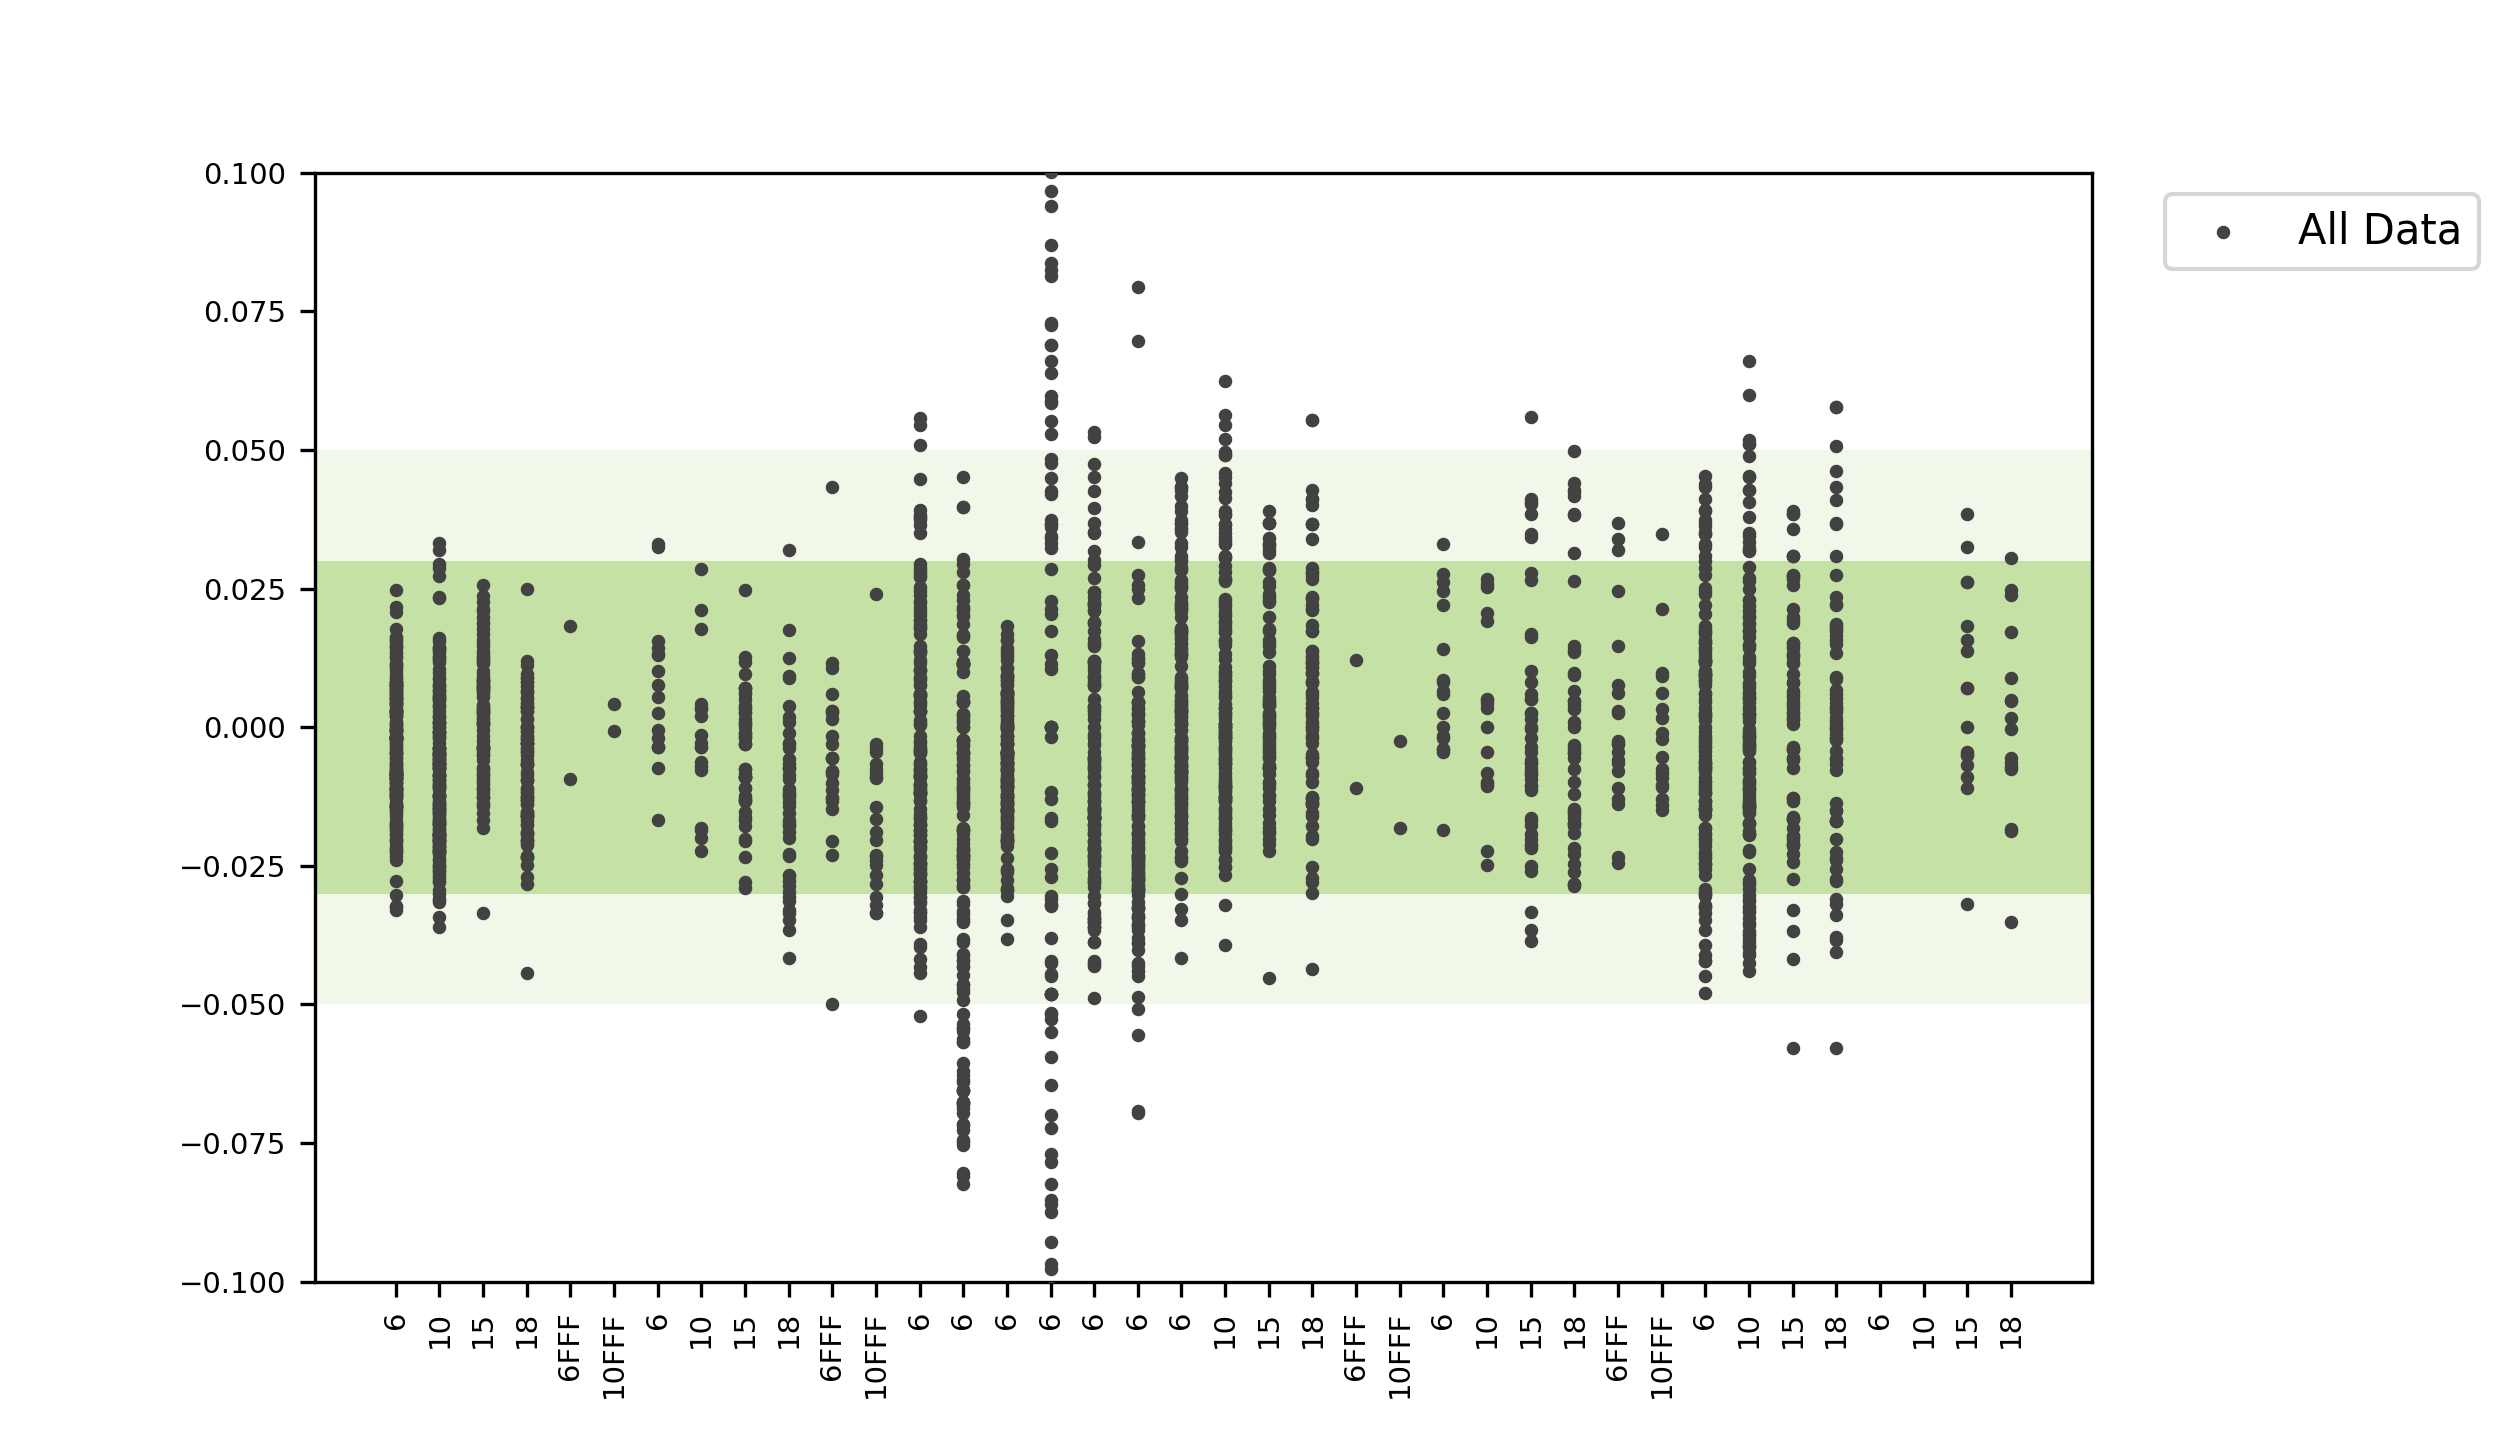
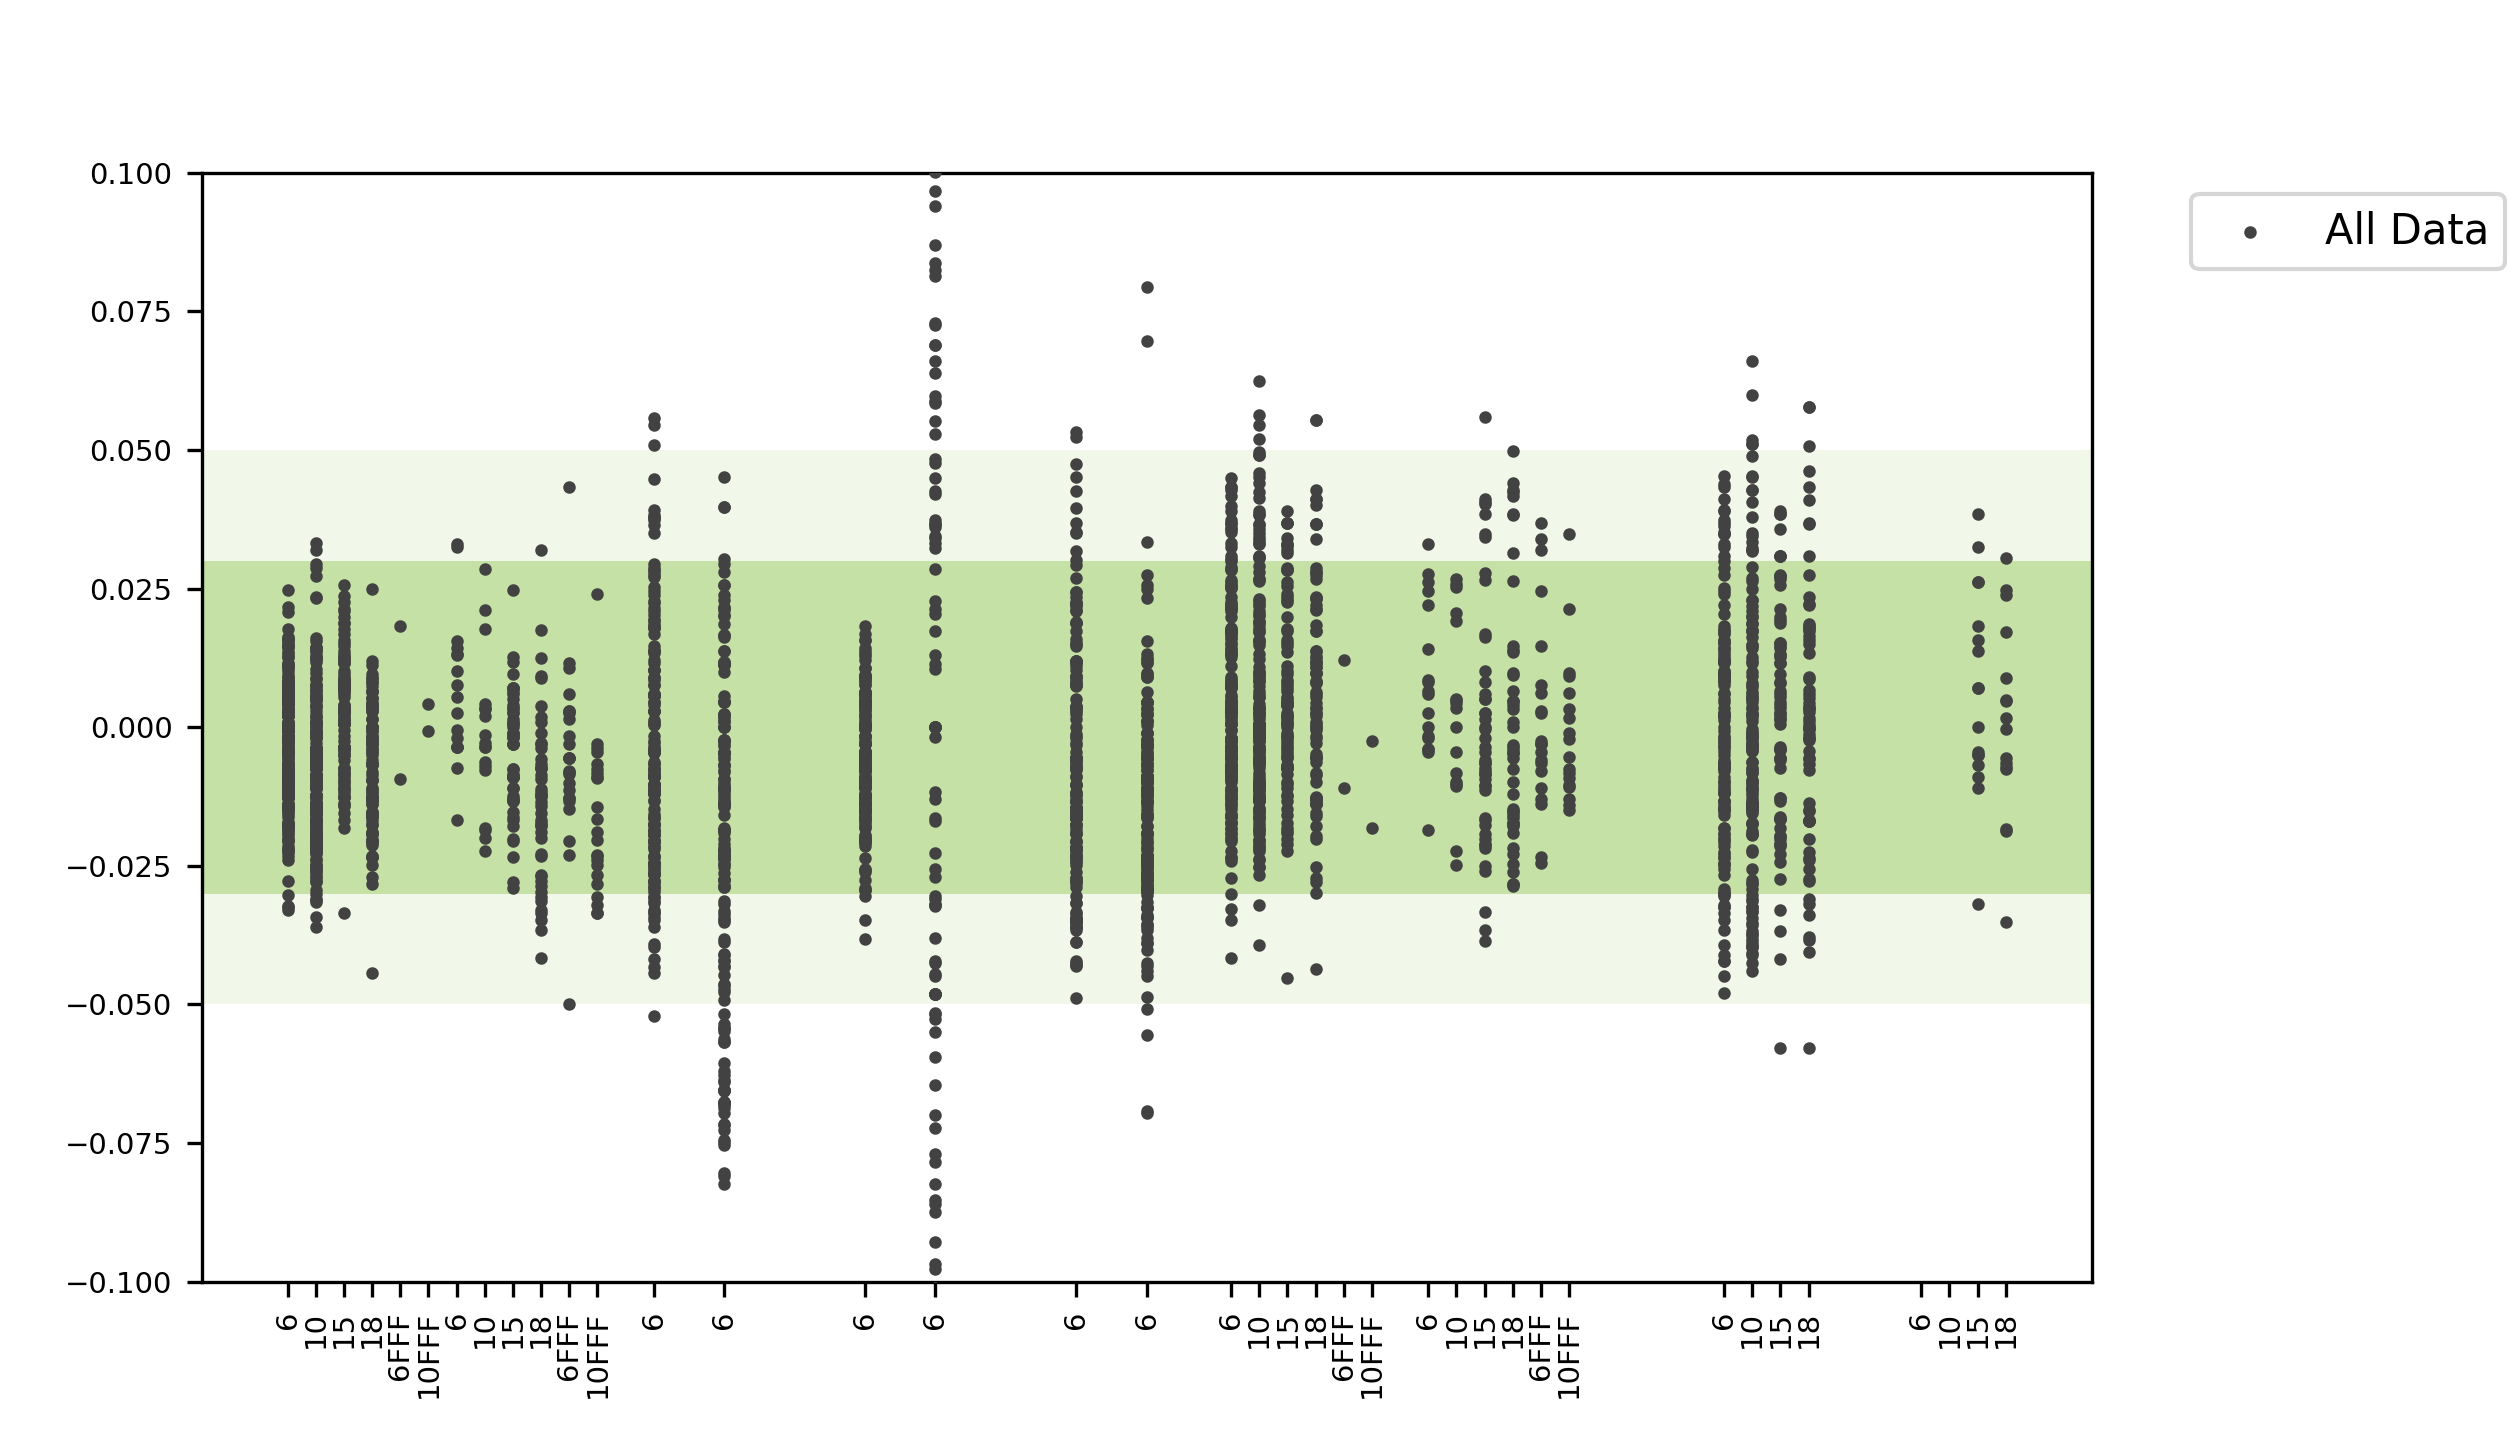
x-axis pos updated

diff --git a/plot3DCRT.py b/plot3DCRT.py
@@ -17,15 +17,15 @@ def all_data():
 
     # y
     del df["x-axis"]
-    # x-axis
-    # x = pd.DataFrame({"x": 263 * (1, 2, 3, 4, 5, 6,
-    #                               7, 8, 9, 10, 11, 12,
-    #                               14, 16.5, 19, 21.5, 24, 26.5,
-    #                               28.5, 29.5, 30.5, 31.5, 32.5, 33.5,
-    #                               35.5, 36.5, 37.5, 38.5, 39.5, 40.5,
-    #                               46, 47, 48, 49,
-    #                               53, 54, 55, 56)})
-    x = pd.DataFrame({"x": 263 * list(range(1, 39))})
+    # x-axis pos
+    x = pd.DataFrame({"x": 263 * (1, 2, 3, 4, 5, 6,
+                                  7, 8, 9, 10, 11, 12,
+                                  14, 16.5, 21.5, 24, 29, 31.5,
+                                  34.5, 35.5, 36.5, 37.5, 38.5, 39.5,
+                                  41.5, 42.5, 43.5, 44.5, 45.5, 46.5,
+                                  52, 53, 54, 55,
+                                  59, 60, 61, 62)})
+    # x = pd.DataFrame({"x": 263 * list(range(1, 39))})
     df["x"] = x
     print(df)
 
@@ -33,17 +33,17 @@ def all_data():
     plt.figure(figsize=(8.4, 4.8))
 
     # scatter plot
-    allData = plt.scatter(df["x"], df["a"], s=5, c="#424242", zorder=5)
+    allData = plt.scatter(df["x"], df["a"], s=4, c="#424242", zorder=5)
 
     # set axis
-    xlabels = np.unique(df["x"])
-    plt.xticks(xlabels, ('6', '10', '15', '18', '6FFF', "10FFF",
-                         "6", "10", "15", '18', '6FFF', '10FFF',
-                         '6', '6', "6", "6", "6", "6",
-                         '6', '10', '15', '18', '6FFF', "10FFF",
-                         "6", "10", "15", '18', '6FFF', '10FFF',
-                         '6', '10', "15", "18",
-                         "6", "10", "15", "18"), rotation=90, fontsize=7)
+    xlabel_pos = np.unique(df["x"])
+    plt.xticks(xlabel_pos, ('6', '10', '15', '18', '6FFF', "10FFF",
+                            "6", "10", "15", '18', '6FFF', '10FFF',
+                            '6', '6', "6", "6", "6", "6",
+                            '6', '10', '15', '18', '6FFF', "10FFF",
+                            "6", "10", "15", '18', '6FFF', '10FFF',
+                            '6', '10', "15", "18",
+                            "6", "10", "15", "18"), rotation=90, fontsize=7)
     plt.yticks(fontsize=7)
     plt.ylim(-0.1, 0.1)
 
@@ -54,7 +54,7 @@ def all_data():
     # ax.set_facecolor("#99FF99")
 
     # set white margins
-    plt.subplots_adjust(right=0.83)
+    plt.subplots_adjust(left=0.08, right=0.83)
 
     # set legend
     plt.legend([allData], ['All Data'], bbox_to_anchor=(1.23, 1))
@@ -62,5 +62,3 @@ def all_data():
     # save fig
     plt.savefig("3DCRT.png", dpi=300)
     # plt.show()
-
-
